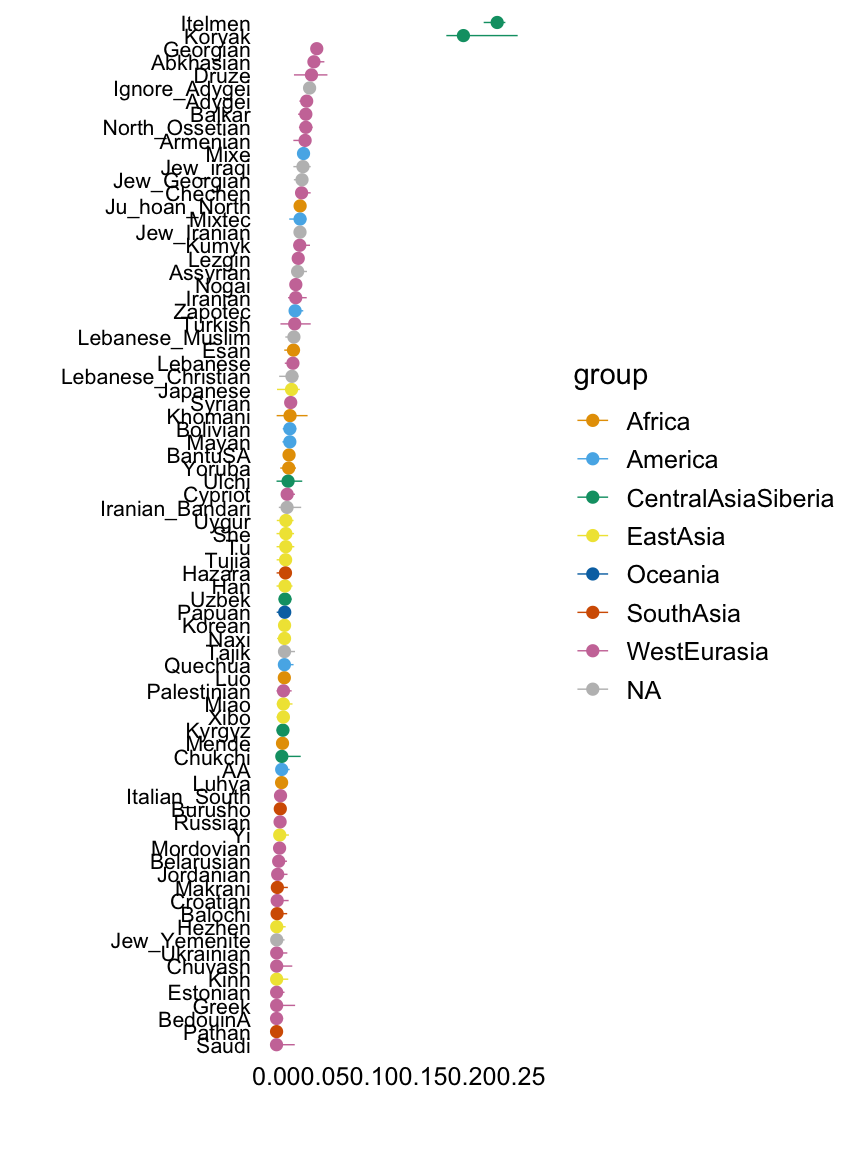
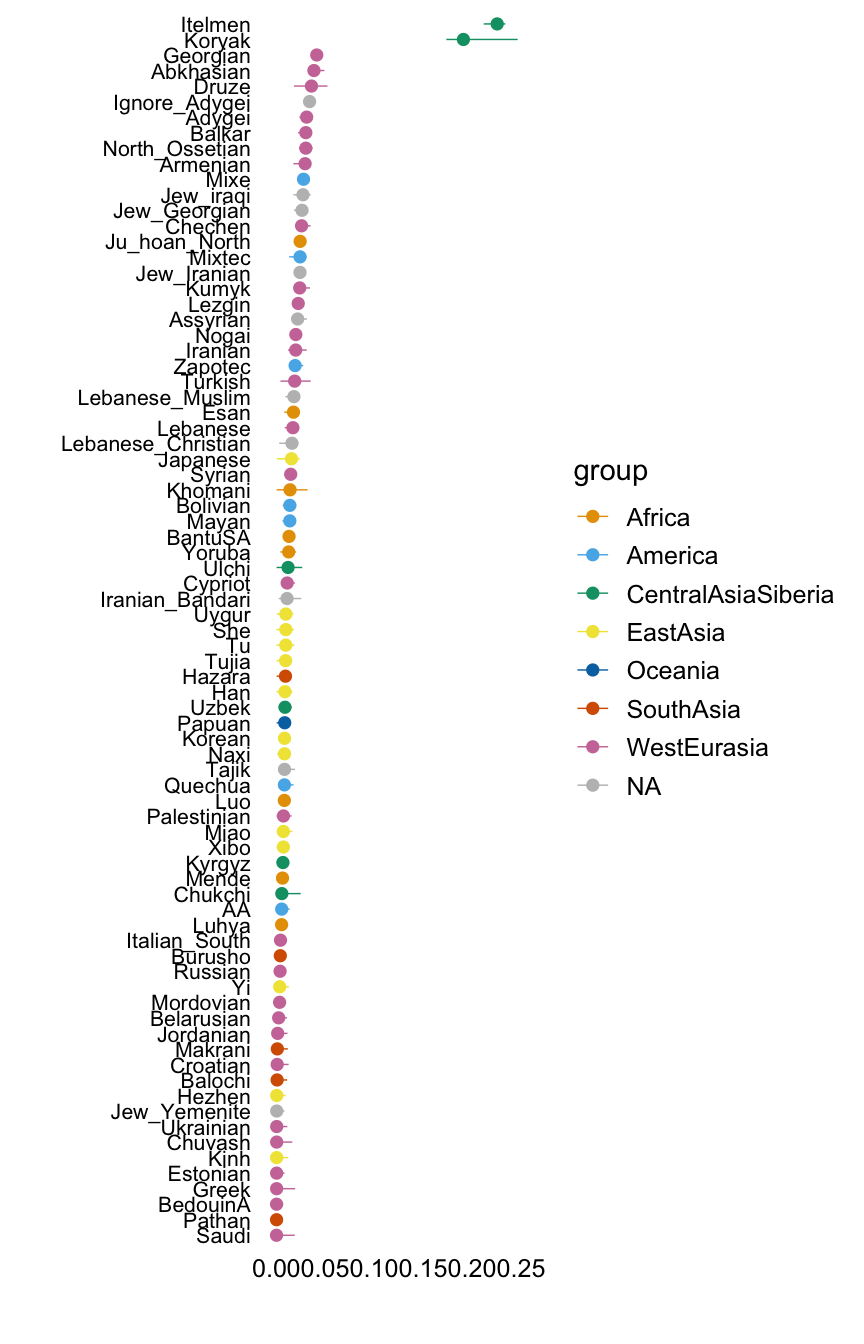
Fixed dimensions of plots, and added text to hoa_global_alt analysis.

diff --git a/docs/hoa_global_alt.html b/docs/hoa_global_alt.html
@@ -420,10 +420,10 @@ This reproducible <a href="http://rmarkdown.rstudio.com">R Markdown</a> analysis
 <div class="panel panel-default">
 <div class="panel-heading">
 <p class="panel-title">
-<a data-toggle="collapse" data-parent="#workflowr-checks" href="#strongRepositoryversionstrongahrefhttpsgithubcomjhmarcusdriftworkflowtreed484e7185dae4148e66a4f2e28f566753ea6cb28targetblankd484e71a"> <span class="glyphicon glyphicon-ok text-success" aria-hidden="true"></span> <strong>Repository version:</strong> <a href="https://github.com/jhmarcus/drift-workflow/tree/d484e7185dae4148e66a4f2e28f566753ea6cb28" target="_blank">d484e71</a> </a>
+<a data-toggle="collapse" data-parent="#workflowr-checks" href="#strongRepositoryversionstrongahrefhttpsgithubcomjhmarcusdriftworkflowtreef703ecd74917021f0c1eb7052f372ce9da8b3259targetblankf703ecda"> <span class="glyphicon glyphicon-ok text-success" aria-hidden="true"></span> <strong>Repository version:</strong> <a href="https://github.com/jhmarcus/drift-workflow/tree/f703ecd74917021f0c1eb7052f372ce9da8b3259" target="_blank">f703ecd</a> </a>
 </p>
 </div>
[2 lines of base64/hex data omitted]
 <div class="panel-body">
 <p>
 Great! You are using Git for version control. Tracking code development and connecting the code version to the results is critical for reproducibility. The version displayed above was the version of the Git repository at the time these results were generated. <br><br> Note that you need to be careful to ensure that all relevant files for the analysis have been committed to Git prior to generating the results (you can use <code>wflow_publish</code> or <code>wflow_git_commit</code>). workflowr only checks the R Markdown file, but you know if there are other scripts or data files that it depends on. Below is the status of the Git repository when the results were generated:
@@ -467,6 +467,23 @@ Message
 </tr>
 </thead>
 <tbody>
+<tr>
+<td>
+Rmd
+</td>
+<td>
+<a href="https://github.com/jhmarcus/drift-workflow/blob/f703ecd74917021f0c1eb7052f372ce9da8b3259/analysis/hoa_global_alt.Rmd" target="_blank">f703ecd</a>
+</td>
+<td>
+Peter Carbonetto
+</td>
+<td>
+2019-03-14
+</td>
+<td>
+wflow_publish(“hoa_global_alt.Rmd”)
+</td>
+</tr>
 <tr>
 <td>
 Rmd
@@ -1215,36 +1232,43 @@ Peter Carbonetto
 </div>
 <div id="factor-11" class="section level3">
 <h3>Factor 11</h3>
+<p>Factor 11 is capturing some subset of Saharan and Middle Eastern populations.</p>
 <pre class="r"><code>with(hoa,plot.response.by.label(factor11,Simple.Population.ID,Region))</code></pre>
 <p><img src="figure/hoa_global_alt.Rmd/plot-factor-11-1.png" width="432" style="display: block; margin: auto;" /></p>
 </div>
 <div id="factor-12" class="section level3">
 <h3>Factor 12</h3>
+<p>Factor 12 seems to distinguish European populations.</p>
 <pre class="r"><code>with(hoa,plot.response.by.label(factor12,Simple.Population.ID,Region))</code></pre>
 <p><img src="figure/hoa_global_alt.Rmd/plot-factor-12-1.png" width="432" style="display: block; margin: auto;" /></p>
 </div>
 <div id="factor-13" class="section level3">
 <h3>Factor 13</h3>
+<p>Interpreting Factor 13 requires some better understanding of the Nganasan, Dolgan and other groups.</p>
 <pre class="r"><code>with(hoa,plot.response.by.label(factor13,Simple.Population.ID,Region))</code></pre>
 <p><img src="figure/hoa_global_alt.Rmd/plot-factor-13-1.png" width="432" style="display: block; margin: auto;" /></p>
 </div>
 <div id="factor-14" class="section level3">
 <h3>Factor 14</h3>
+<p>Factor 14 is difficult to interpret.</p>
 <pre class="r"><code>with(hoa,plot.response.by.label(factor14,Simple.Population.ID,Region))</code></pre>
 <p><img src="figure/hoa_global_alt.Rmd/plot-factor-14-1.png" width="432" style="display: block; margin: auto;" /></p>
 </div>
 <div id="factor-15" class="section level3">
 <h3>Factor 15</h3>
+<p>Factor 15 is also difficult to interpret.</p>
 <pre class="r"><code>with(hoa,plot.response.by.label(factor15,Simple.Population.ID,Region))</code></pre>
 <p><img src="figure/hoa_global_alt.Rmd/plot-factor-15-1.png" width="432" style="display: block; margin: auto;" /></p>
 </div>
 <div id="factor-16" class="section level3">
 <h3>Factor 16</h3>
+<p>Factor 16 captures individuals of Surui origin.</p>
 <pre class="r"><code>with(hoa,plot.response.by.label(factor16,Simple.Population.ID,Region))</code></pre>
 <p><img src="figure/hoa_global_alt.Rmd/plot-factor-16-1.png" width="432" style="display: block; margin: auto;" /></p>
 </div>
 <div id="factor-17" class="section level3">
 <h3>Factor 17</h3>
+<p>Factor 17 captures the Biaka ancestral population.</p>
 <pre class="r"><code>with(hoa,plot.response.by.label(factor17,Simple.Population.ID,Region))</code></pre>
 <p><img src="figure/hoa_global_alt.Rmd/plot-factor-17-1.png" width="432" style="display: block; margin: auto;" /></p>
 </div>
